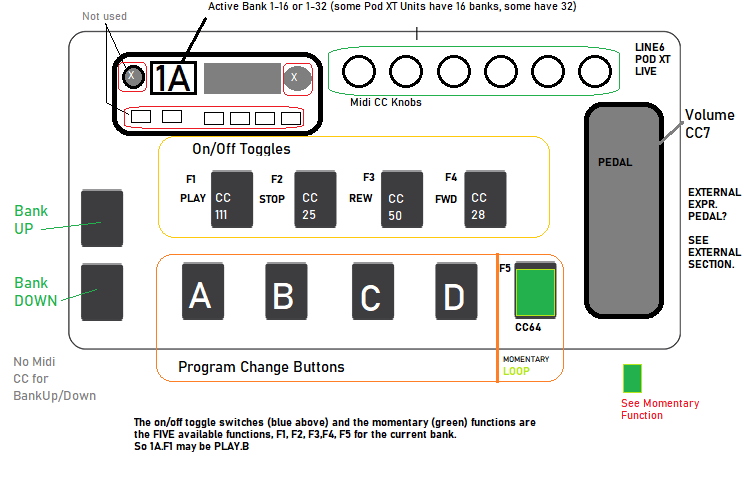
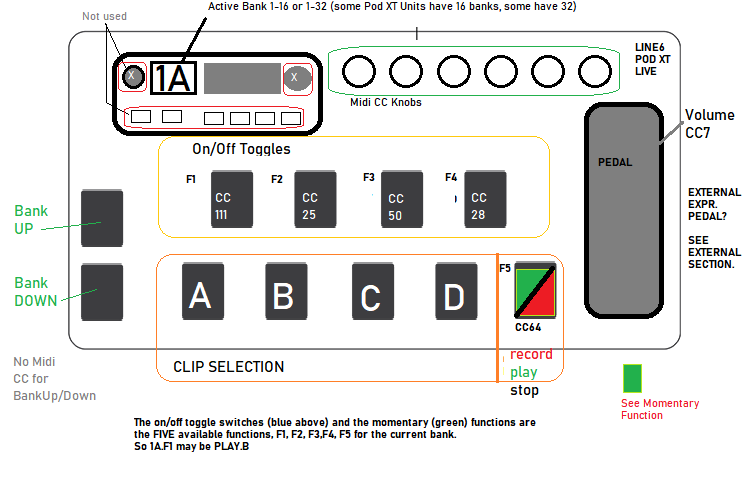
Documentation now shows what I will do next time I rebuild this script. For now the script is only 0.01 level, but it contains the basic skeleton I need to build what I wish to build. The thing I wish to build is specc'd in the html docs for the Line6PodXTFloor.html.
The control script itself is doing almost nothing when you press A,B,C,D, and the functions for F1-F5 are just some initial stabs aimed at learning the way this works.

The critical limitation I'm seeing is that I don't see a way to get notified in  the script about the change in track selection.  Perhaps when a column is selected, I can also detect a track change.

diff --git a/Line6PodXTFloor/Line6PodXTFloor.html b/Line6PodXTFloor/Line6PodXTFloor.html
@@ -28,12 +28,80 @@
         Important note: For the script to work, you need to set up the first 8 banks of the podgo to have amp, stomp, mod and delay mode OFF for the first 8 banks, of four presets.  So thats 32 presets to go in and set up manually, or you can try to get this set up via the Line6 app.   It's probably easier to just do this by hand.   Basically you just go to bank 1, press A, then if AMP or STOMP or MOD or DELAY is lit, press it again so it's not lit, then press SAVE. Advance from 1A, 1B,1C,1D up to 8D. 
     </div>
    
+    <br><br><br><br>
    
-   <h1>TODO</h1>
+    <table style="width:80%;text-align:left;" >
+        <tr>
+          <th>Bank<br></th>
+          <th>Description</th>
+          <th>F1</th>
+          <th>F2</th>
+          <th>F3</th>
+          <th>F4</th>
+          <th>F5</th>
+          <th>ON/OFF BUTTON A</th>
+          <th>ON/OFF BUTTON B</th>
+          <th>ON/OFF BUTTON C</th>
+          <th>ON/OFF BUTTON D</th>
+        </tr>
+        <tr>
+            <td>1</th>
+            <td>TRACK1<br>LOOPER<br></th>
+            <td>SELECT&PLAY<br>TRACK1.CLIP1</th>
+            <td>SELECT&PLAY<br>TRACK1.CLIP2</th>
+            <td>SELECT&PLAY<br>TRACK1.CLIP3</th>
+            <td>SELECT&PLAY<br>TRACK1.CLIP4</th>
+            <td>RECORD/PLAY/STOP</th>
+            <td>STOMP CC A</th>
+            <td>STOMP CC B</th>
+            <td>STOMP CC C</th>
+            <td>STOMP CC D</th>
+        </tr>
+        <tr>
+            <td>2</th>
+            <td>TRACK2<BR>LOOPER<br></th>
+            <td>SELECT&PLAY<br>TRACK2.CLIP1</th>
+            <td>SELECT&PLAY<br>TRACK2.CLIP2</th>
+            <td>SELECT&PLAY<br>TRACK2.CLIP3</th>
+            <td>SELECT&PLAY<br>TRACK2.CLIP4</th>
+            <td>RECORD/PLAY/STOP</th>
+            <td>STOMP CC A</th>
+            <td>STOMP CC B</th>
+            <td>STOMP CC C</th>
+            <td>STOMP CC D</th>
+        </tr>
+        <tr>
+            <td>3</th>
+            <td>TRACK3<br>LOOPER<br></th>
+            <td>CLIP1</th>
+            <td>CLIP2</th>
+            <td>CLIP3</th>
+            <td>CLIP4</th>
+            <td>RECORD/PLAY/STOP</th>
+            <td>STOMP CC A</th>
+            <td>STOMP CC B</th>
+            <td>STOMP CC C</th>
+            <td>STOMP CC D</th>
+        </tr>  
+        <tr>
+            <td>4</th>
+            <td>TRACK4<br>LOOPER<br></th>
+            <td>CLIP1</th>
+            <td>CLIP2</th>
+            <td>CLIP3</th>
+            <td>CLIP4</th>
+            <td>RECORD/PLAY/STOP</th>
+            <td>STOMP CC A</th>
+            <td>STOMP CC B</th>
+            <td>STOMP CC C</th>
+            <td>STOMP CC D</th>
+        </tr>               
+      </table>
    
     </div>
+    <br>
     <div id="footer">
-        User Supplied Script documentation
+        Scripts by W. Postma.
 		
     </div>
 </div>

diff --git a/Line6PodXTFloor/Line6PodXTFloor.control.js b/Line6PodXTFloor/Line6PodXTFloor.control.js
@@ -88,7 +88,7 @@ function init()
    application = host.createApplicationSection();
    groove = host.createGrooveSection();
    masterTrack = host.createMasterTrackSection(0);
-   trackBank = host.createTrackBankSection(8, 4, 99);
+   trackBank = host.createTrackBankSection(8, 4, 99); // this trackbank is probably the first 8 tracks but who the fuck knows with the vague ass documentation bitwig devs provide.
    transport = host.createTransportSection();
    keys = host.getMidiInPort(0).createNoteInput("PodXTLive Keys", "80????", "90????", "B001??", "B002??", "B007??", "B00B??", "B040??", "C0????", "D0????", "E0????");
    keys.setShouldConsumeEvents(false);
@@ -100,6 +100,8 @@ function init()
    
    cursorTrack = host.createCursorTrack(3, 8);
    cursorDevice = cursorTrack.getPrimaryDevice();
+   //cursorTrack.selectPrevious();
+   //cursorTrack.selectNext();
    
    uControl = host.createUserControls(6); // 0-5 : knobs. 
    for (var i = 0; i < 6; i++) {
@@ -279,13 +281,28 @@ function do_function(number,bank,vdata)
 		}	
 		else if (number == 4) {
 			
+      //transport.play();
+      if (vdata == 0) {
+        transport.continuePlayback();
+        showPopupNotification("continue");
+      } else {
+        transport.stop();
+        showPopupNotification("stop");
+      }
 
-
+      
 		}	
 		else if (number == 5)  {
-      // TODO, BANK 2, FUNCTION 5
-      showPopupNotification("todo");
-		}	
+      // This will play the first clip in the project if it exists.
+      // If no clip exists we don't yet know what code to write to actually find out is there anything to launch
+      // and then don't return true/false from the launch() method, like they should have.
+      row=1;
+      column=1;
+      //trackBank.getChannel(row).getClipLauncherSlots().launch(column);
+      trackBank.getChannel(row).getClipLauncherSlots().launch(column);
+
+    }
+			
 	}
 	else if (bank == 3 ) {
 		// bank 3
